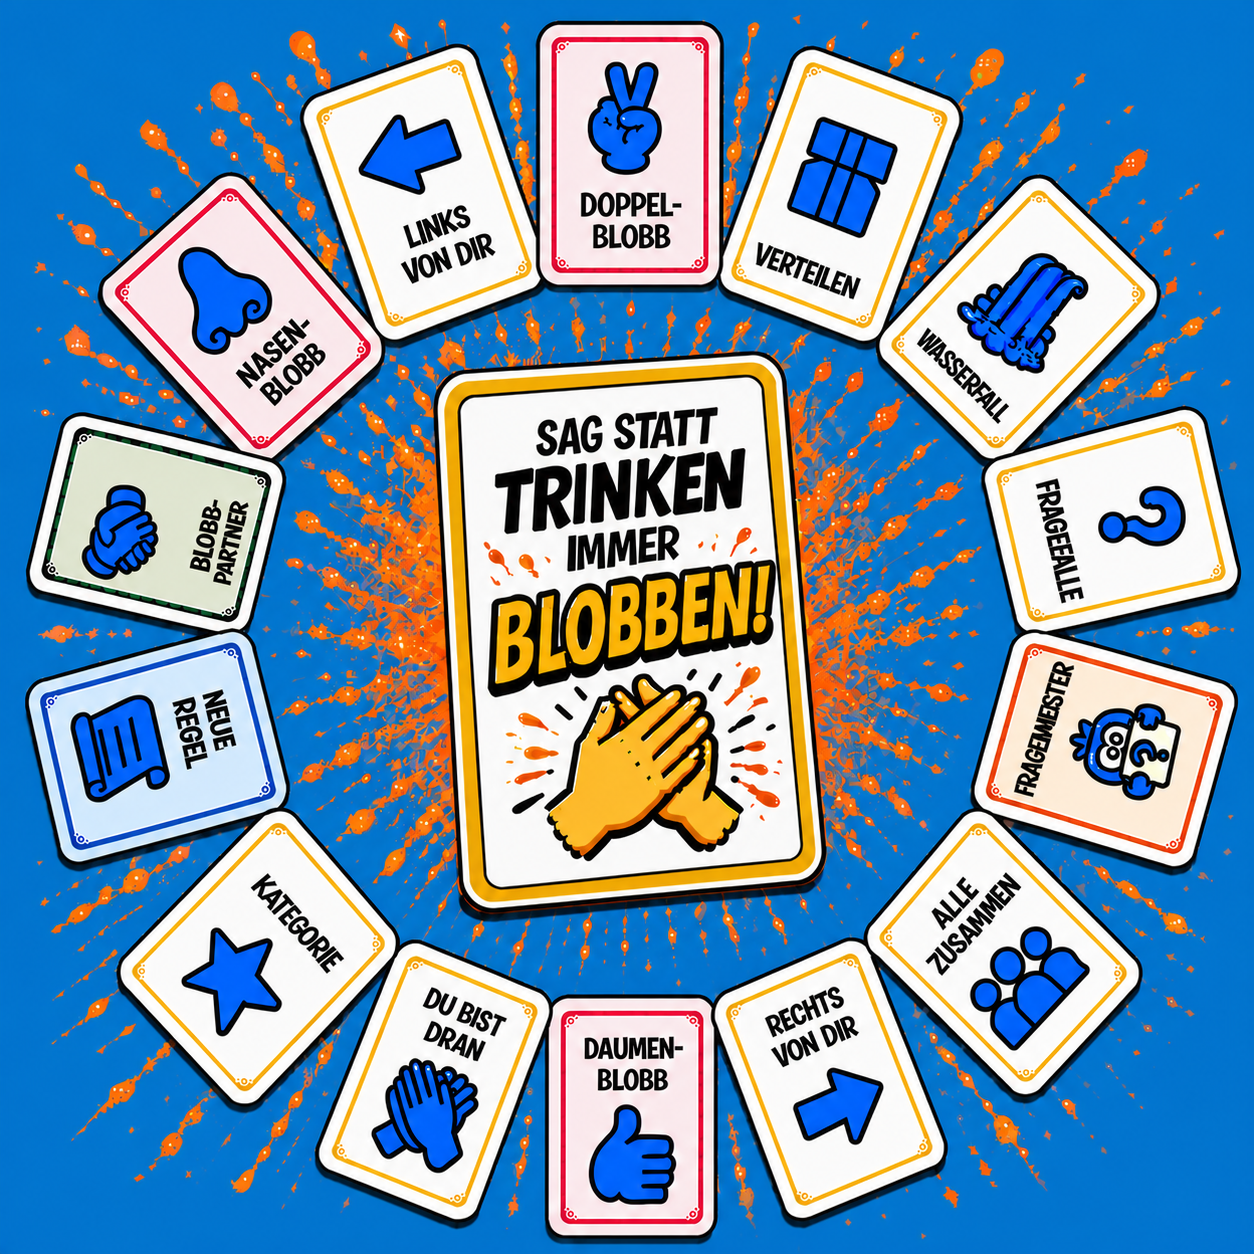
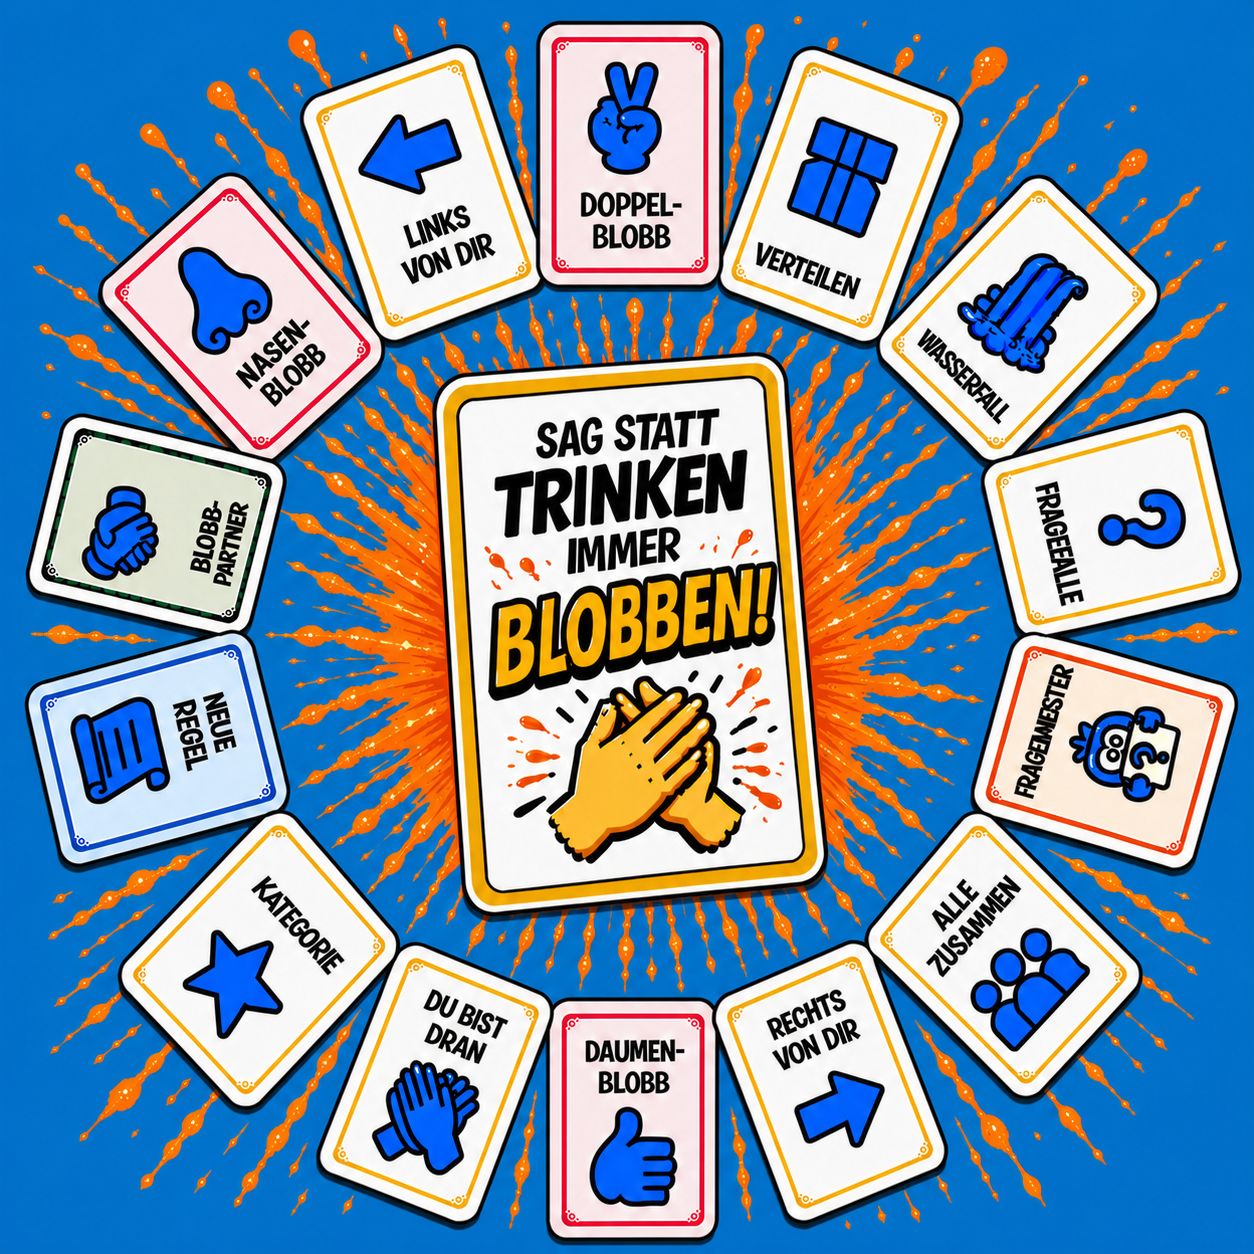
Refine homepage game art and transparency

diff --git a/src/style.css b/src/style.css
@@ -274,9 +274,12 @@ body {
   object-fit: contain;
 }
 
-.blobfahrer-home-button,
+.blobfahrer-home-button {
+  background: #0476cc;
+}
+
 .klatschen-home-button {
-  background: #067dcc;
+  background: #0271c9;
 }
 
 .busfahrer-button-label {
@@ -752,13 +755,13 @@ html.is-standalone #app > .setup-page > .setup-shell {
 .home-page .favorites-filter-button {
   border: 1.5px solid var(--home-glass-border);
   border-radius: var(--home-control-radius);
-  background: linear-gradient(180deg, rgba(255, 122, 26, .70) 0%, rgba(247, 91, 4, .70) 50%, rgba(217, 74, 0, .70) 100%);
+  background: linear-gradient(180deg, rgba(255, 122, 26, .49) 0%, rgba(247, 91, 4, .49) 50%, rgba(217, 74, 0, .49) 100%);
   box-shadow: var(--home-glass-shadow);
 }
 
 .home-page .games-search-bar {
   border: 1.5px solid rgba(255, 255, 255, .90);
-  background: linear-gradient(180deg, rgba(255, 122, 26, .50) 0%, rgba(247, 91, 4, .50) 50%, rgba(217, 74, 0, .50) 100%);
+  background: linear-gradient(180deg, rgba(255, 122, 26, .25) 0%, rgba(247, 91, 4, .25) 50%, rgba(217, 74, 0, .25) 100%);
   -webkit-backdrop-filter: none;
   backdrop-filter: none;
   box-shadow:
@@ -794,7 +797,7 @@ html.is-standalone #app > .setup-page > .setup-shell {
 .home-page .categories-filter-button.is-active,
 .home-page .favorites-filter-button.is-active {
   border-color: rgba(255, 255, 255, .82);
-  background: linear-gradient(180deg, rgba(255, 131, 41, .70) 0%, rgba(247, 91, 4, .70) 50%, rgba(207, 66, 0, .70) 100%);
+  background: linear-gradient(180deg, rgba(255, 131, 41, .49) 0%, rgba(247, 91, 4, .49) 50%, rgba(207, 66, 0, .49) 100%);
   box-shadow: var(--home-glass-shadow);
 }
 